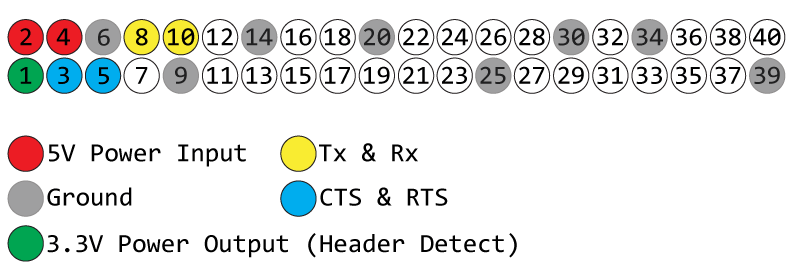
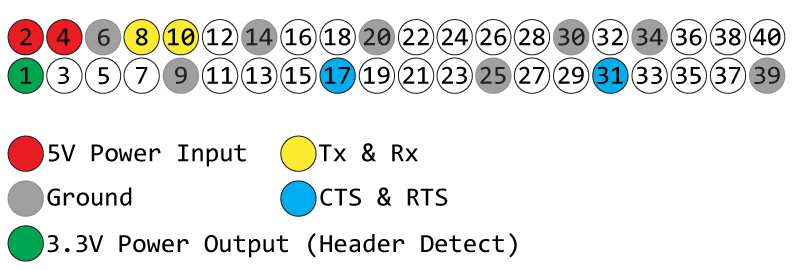
changed rtscts

Changed region(s): [[0.0312, 0.2074, 0.1562, 0.3556], [0.375, 0.2074, 0.4688, 0.3556], [0.7188, 0.2074, 0.8125, 0.3556]]

diff --git a/SBC.md b/SBC.md
@@ -4,14 +4,14 @@ The VT-69 includes an internal 40-pin header for attaching a single board comput
 
 ## The Internal Header
 
-The internal 40-pin header follows the 'Raspberry Pi' format, with 3.3V on pin one, 5V power input on pins 2 and 4, etc... The Rx and Tx pins (from microcontroller to header) are pins 8 and 10, respectively, and there are provisions for an optional RTS and CTS connections through pins 3 and 5, resepectively.
+The internal 40-pin header follows the 'Raspberry Pi' format, with 3.3V on pin one, 5V power input on pins 2 and 4, etc... The Rx and Tx pins (from microcontroller to header) are pins 8 and 10, respectively, and there are provisions for an optional RTS and CTS connections through pins 31 and 17, resepectively.
 
 ![Diagram of pin header](https://github.com/ViolenceWorks/VT-69/blob/main/Documentation/ArtAssets/40PinHeader.png)
 
 Pins 2 and 4 are the only power supplies for the header, providing 5V. Pin 1 is treated as an output on the header; The VT-69 may be configured to default to the internal header if the microcontroller detects a 3.3 logic level high on this pin during reset.
 
-**Important** If you develop your own extention to the 
+**Important** If you develop your own extention to the VT-69, your board must _supply_ 3.3V to the VT-69 over pin 1 for automatic detection of the board to occur during boot. 
 
 ## Configuring a Linux-based Single Board Computer
 
-This guide assumes the SBC is a Raspberry Pi zero. 
+This guide assumes the SBC is a Raspberry Pi Zero running at leas Debian 'Buster', kernel version 5.10. Earlier versions of Raspbian will not work with this guide; 
